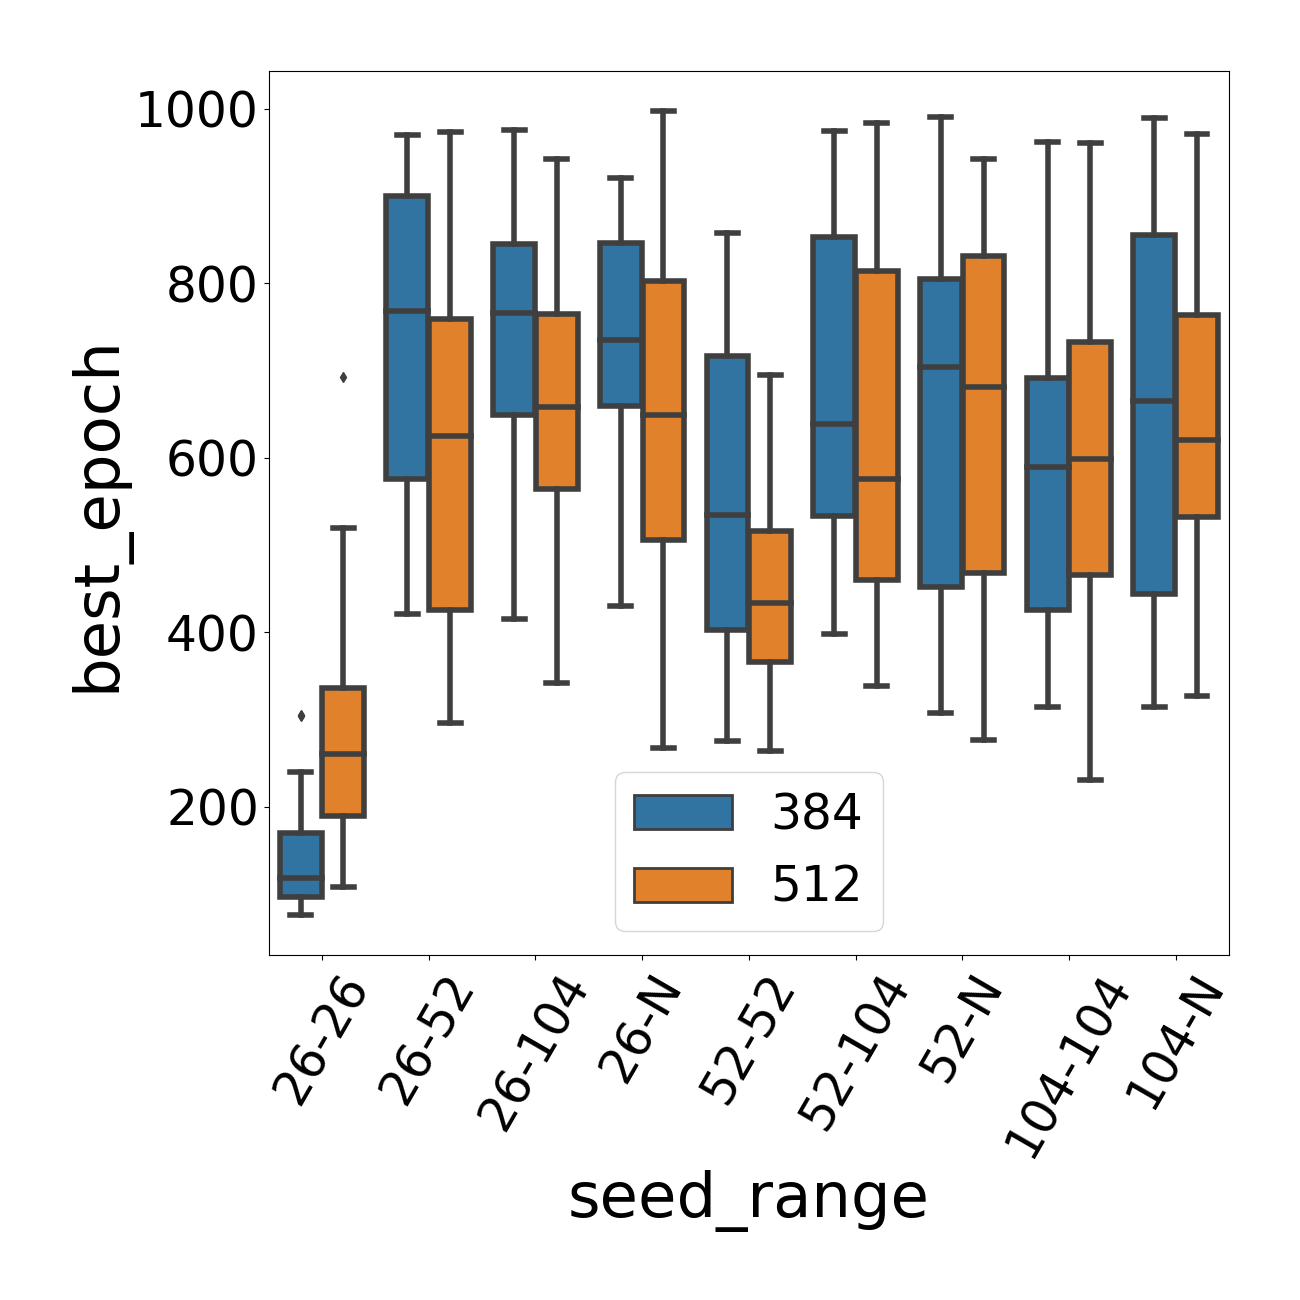
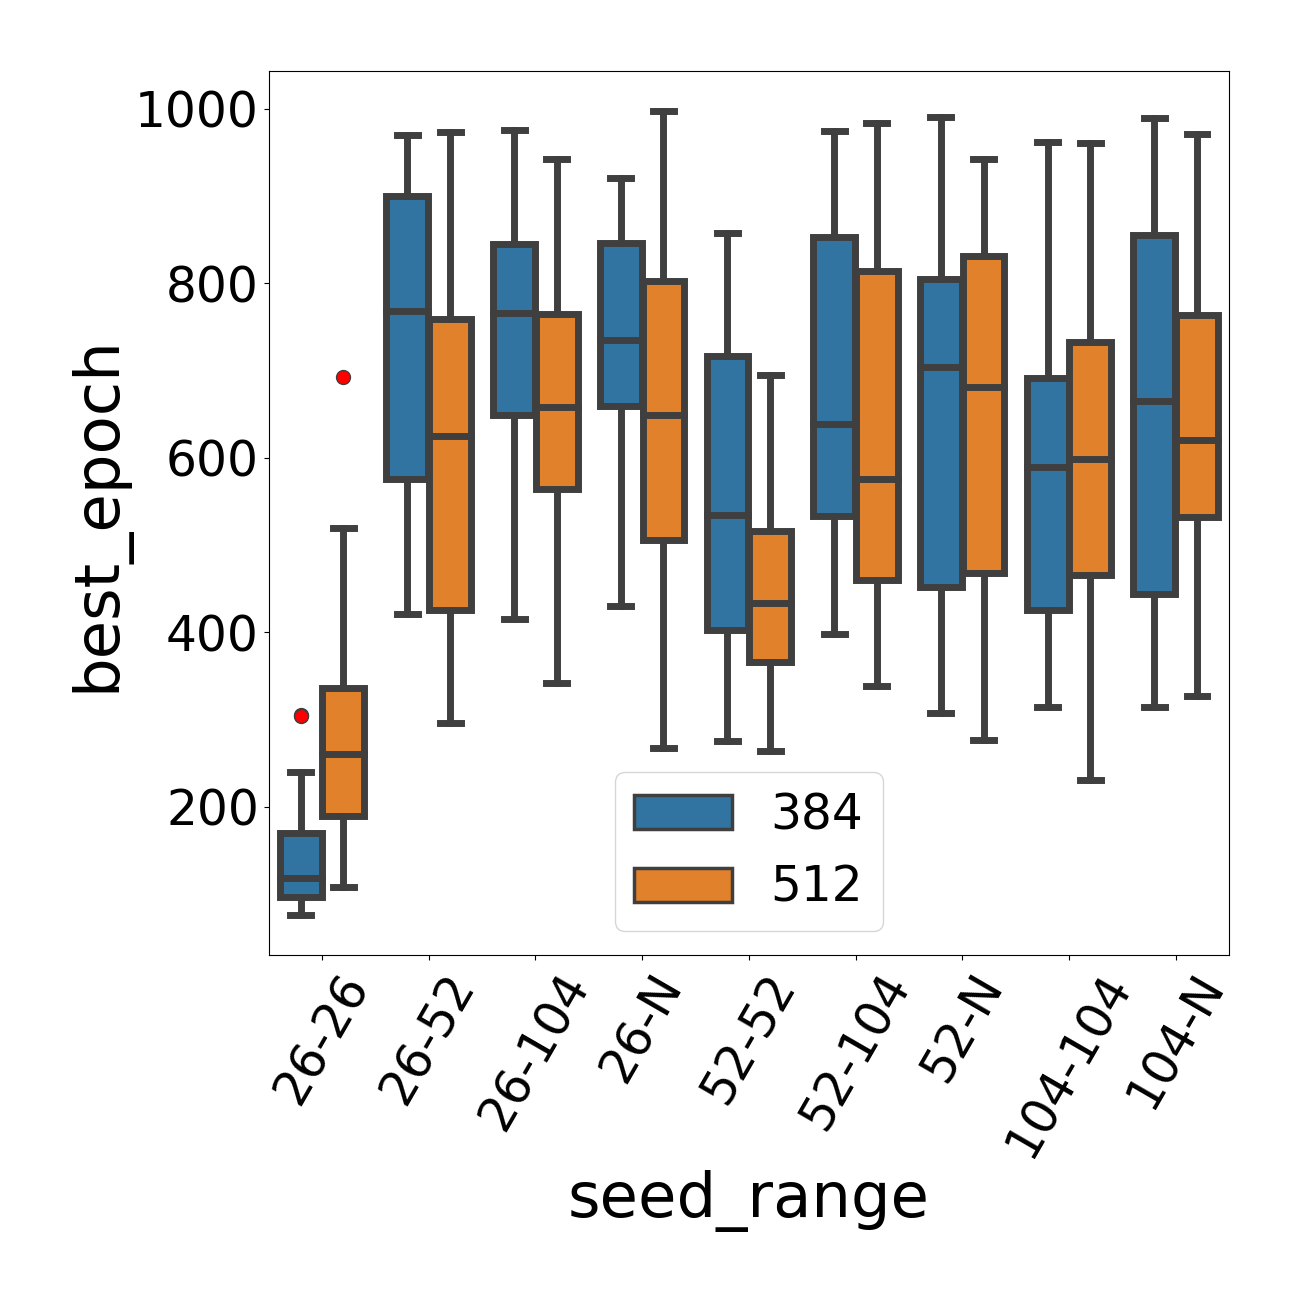
Reformat training graphs

diff --git a/src/app/helper_scripts/12_early_stopping_aggregate_training_graph_with_filter.py b/src/app/helper_scripts/12_early_stopping_aggregate_training_graph_with_filter.py
@@ -16,7 +16,7 @@ import utils.directory_utils as dir_utils
 
 primary_text_font_size=45
 secondary_text_font_size=35
-linewidth=4
+linewidth=5
 
 def set_up_plot():
     plt.rc('xtick', labelsize=secondary_text_font_size)
@@ -32,7 +32,12 @@ def set_up_plot():
 
 def save_fig(data, y_label, output_folder, file_name):
     set_up_plot()
-    ax = sns.boxplot(data=data, x="seed_range", y=y_label, hue="lstm_cells", linewidth=linewidth)
+    flierprops = {
+        'markersize': 10,
+        'markerfacecolor': 'red',
+        'marker': 'o'
+    }
+    ax = sns.boxplot(data=data, x="seed_range", y=y_label, hue="lstm_cells", linewidth=linewidth, flierprops=flierprops)
     ax.set_xticklabels(ax.get_xticklabels(), rotation=60)
     plt.tight_layout()
 
@@ -56,6 +61,7 @@ def main():
 
     dir_utils.mkdir(output_folder)
 
+    root = '/projects/btl/scratch/echen/March_26_Results_Backup/models/'
     lstm_cell_directories = os.listdir(root)
     replicates = 30
 

diff --git a/src/app/helper_scripts/9_early_stopping_aggregate_training_graph.py b/src/app/helper_scripts/9_early_stopping_aggregate_training_graph.py
@@ -16,7 +16,7 @@ import utils.directory_utils as dir_utils
 
 primary_text_font_size=45
 secondary_text_font_size=35
-linewidth=4
+linewidth=5
 rotation=60
 
 def set_up_plot():
@@ -33,7 +33,12 @@ def set_up_plot():
 
 def save_fig(data, y_label, output_folder, file_name):
     set_up_plot()
-    ax = sns.boxplot(data=data, x="seed_range", y=y_label, hue="lstm_cells", linewidth=linewidth)
+    flierprops = {
+        'markersize': 10,
+        'markerfacecolor': 'red',
+        'marker': 'o'
+    }
+    ax = sns.boxplot(data=data, x="seed_range", y=y_label, hue="lstm_cells", linewidth=linewidth, flierprops=flierprops)
     ax.set_xticklabels(ax.get_xticklabels(), rotation=rotation)
     plt.tight_layout()
 
@@ -57,6 +62,7 @@ def main():
 
     dir_utils.mkdir(output_folder)
 
+    root = '/projects/btl/scratch/echen/March_26_Results_Backup/models/'
     lstm_cell_directories = os.listdir(root)
     replicates = 30
 
